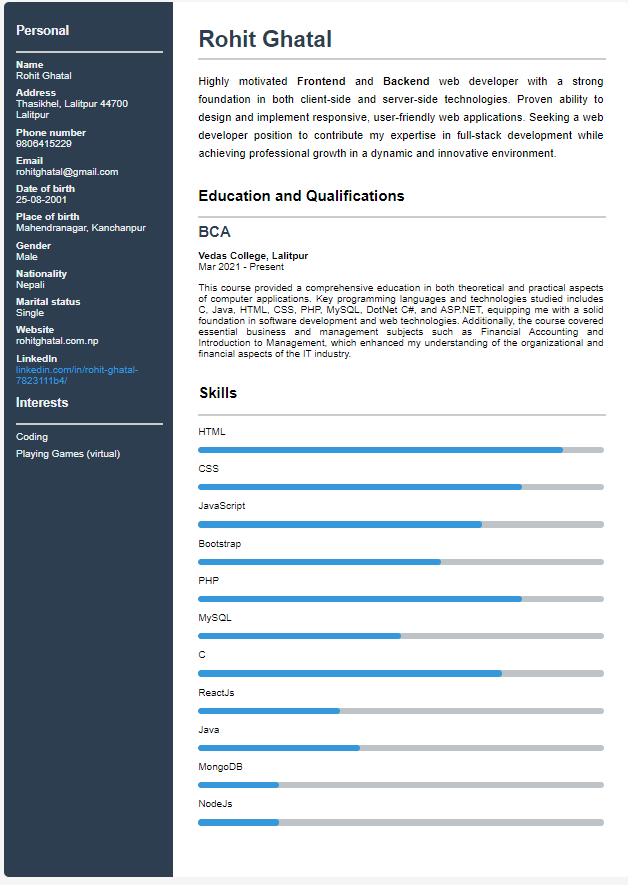
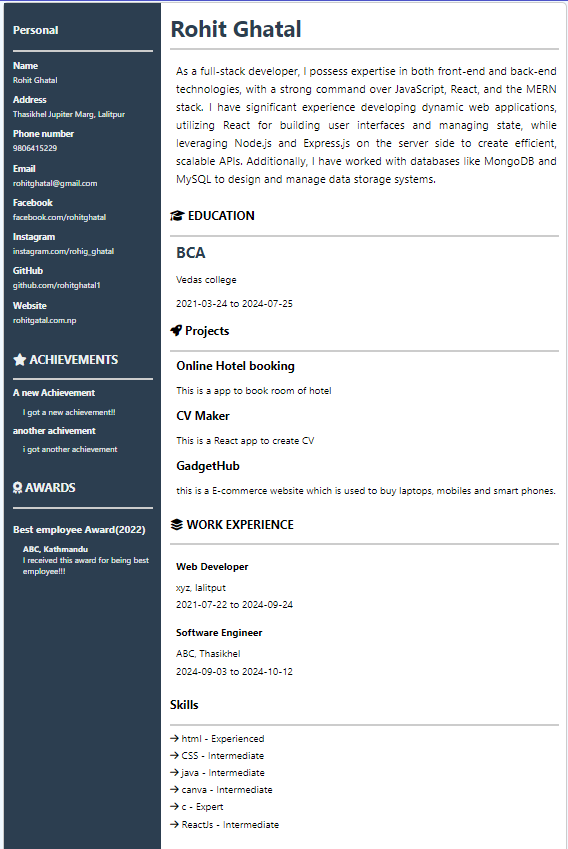
added css for template tab

Changed region(s): [[0.0, 0.0, 1.0, 1.0]]

diff --git a/src/App.js b/src/App.js
@@ -29,12 +29,12 @@ function App() {
 
   return (
     <>
-      <Router>
+      {/* <Router>
         <Navbar />
         <MainContent/>
-      </Router>
+      </Router> */}
 
-    {/* <TemplateTab/> */}
+    <TemplateTab/>
       {/* <Navbar/>
       <HomeTab/>
       <Templates/>
@@ -60,6 +60,7 @@ function MainContent() {
         <Route path='/cvgenerator' element={<CVgenerator />} />
         <Route path='/about' element={<AboutUs />} />
       </Routes>
+      <Templates/>
       {showFooter && <Footer />}
     </>
   )

diff --git a/src/components/TemplateTab.js b/src/components/TemplateTab.js
@@ -1,5 +1,6 @@
 import React from 'react'
 import templateData from '../templateSelector/templateData';
+import './templateTab.css'
 
 export default function TemplateTab() {
   return (

diff --git a/src/components/templateTab.css b/src/components/templateTab.css
@@ -1,0 +1,9 @@
+.TemplateTab{
+    width: 90%;
+    margin: auto;
+    padding: 0.5rem;
+}
+.TemplateTab h2,p{
+    text-align: center;
+    padding: 0.4rem;
+}
